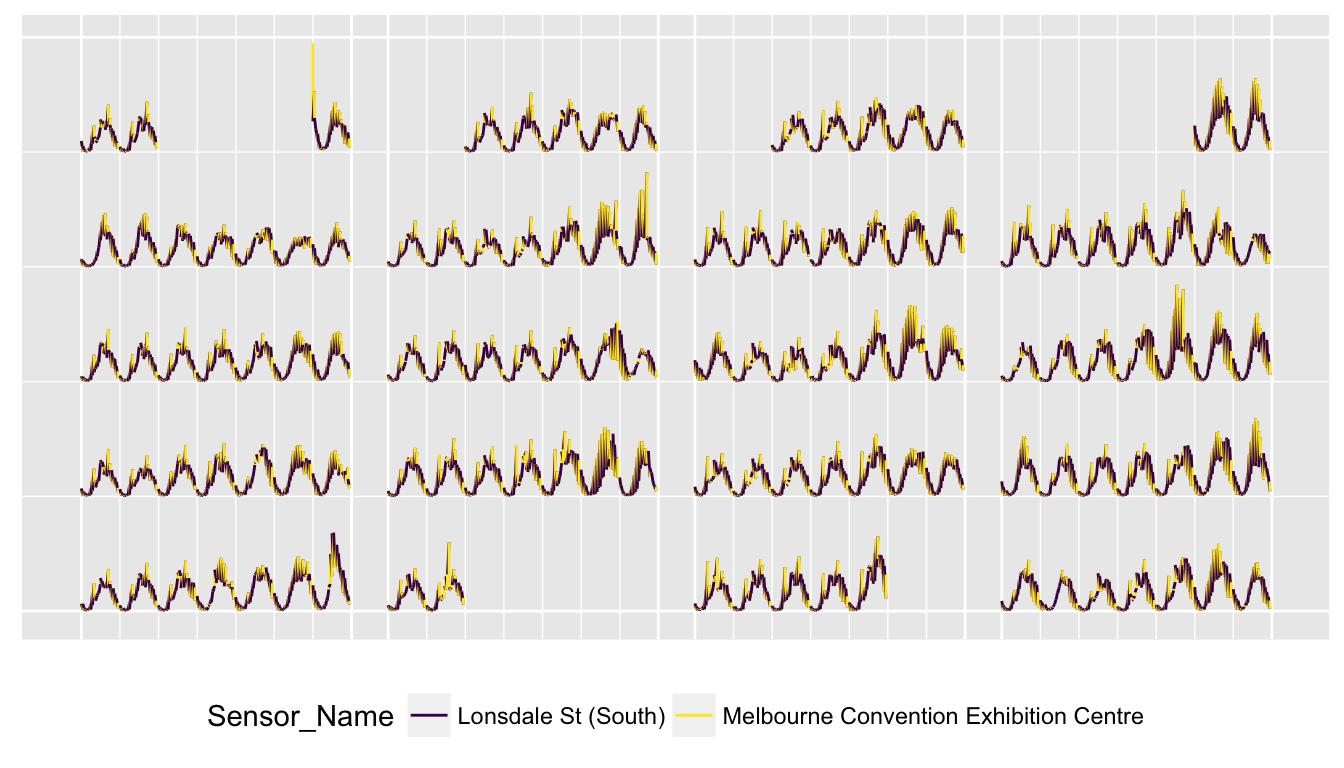
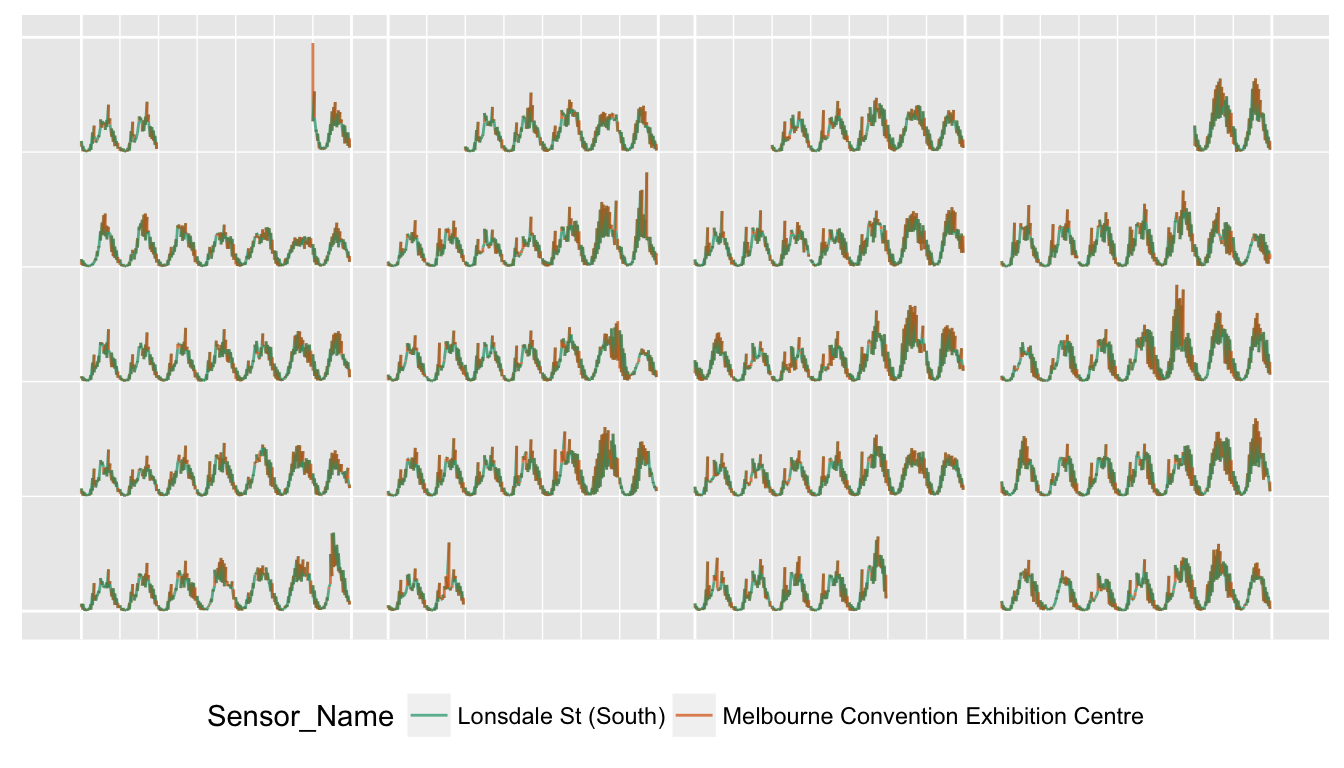
adjusted aes in vignette

diff --git a/docs/articles/frame-calendar.html b/docs/articles/frame-calendar.html
@@ -69,7 +69,7 @@
       <h1>Calendar-based graphics</h1>
                         <h4 class="author">Earo Wang, Di Cook, Rob J Hyndman</h4>
             
-            <h4 class="date">2017-06-23</h4>
+            <h4 class="date">2017-06-27</h4>
           </div>
 
     
@@ -78,7 +78,7 @@
 <div id="introduction" class="section level2">
 <h2 class="hasAnchor">
 <a href="#introduction" class="anchor"></a>Introduction</h2>
-<p>Calendar-based graphics turn out a useful tool for visually unfolding people’s daily schedules in details, such as hourly foot traffic in CBD, daily residential electricity demand and etc. It arranges the values according to the corresponding dates into a calendar layout, which is comprised of weekdays on the columns and weeks of a month on the rows for a common monthly calendar. The idea originates from <span class="citation">Van Wijk and Van Selow (<a href="#ref-van_wijk_cluster_1999">1999</a>)</span> and is implemented into a couple of R packages (<a href="https://github.com/AtherEnergy/ggTimeSeries">ggTimeSeries</a> and <a href="https://github.com/jayjacobs/ggcal">ggcal</a>), yet they all are a variant of heatmap in temporal context. We extend the calendar-based graphics to a broader range of applications using linear algebra tools. For example, (1) it not only handles with data of daily intervals but also of higher frequency like hourly data; (2) it is no longer constrained to heatmap but can be used with other types of <em>Geoms</em>; (3) the built-in calendars include <em>monthly</em>, <em>weekly</em>, and <em>daily</em> types for the purpose of comparisons between different temporal components. The function <code>frame_calendar</code> returns the computed calendar grids as a data frame or a tibble according to its data input, and <em>ggplot2</em> takes care of the plotting as you usually do with a data frame.</p>
+<p>Calendar-based graphics turn out a useful tool for visually unfolding people’s daily schedules in details, such as hourly foot traffic in CBD, daily residential electricity demand and etc. It arranges the values according to the corresponding dates into a calendar layout, which is comprised of weekdays on columns and weeks of a month on rows for a common monthly calendar. The idea originates from <span class="citation">Van Wijk and Van Selow (<a href="#ref-van_wijk_cluster_1999">1999</a>)</span> and is implemented into a couple of R packages (<a href="https://github.com/AtherEnergy/ggTimeSeries">ggTimeSeries</a> and <a href="https://github.com/jayjacobs/ggcal">ggcal</a>), yet they all are a variant of heatmap in temporal context. We extend the calendar-based graphics to a broader range of applications using linear algebra tools. For example, (1) it not only handles with data of daily intervals but also of higher frequency like hourly data; (2) it is no longer constrained to heatmap but can be used with other types of <em>Geoms</em>; (3) the built-in calendars include <em>monthly</em>, <em>weekly</em>, and <em>daily</em> types for the purpose of comparisons between different temporal components. The function <code><a href="../reference/frame-calendar.html">frame_calendar()</a></code> returns the computed calendar grids as a data frame or a tibble according to its data input, and <em>ggplot2</em> takes care of the plotting as you usually do with a data frame.</p>
 <p>We are going to use Melbourne pedestrian data (shipped with the package) as an example throughout the vignette, which is sourced from <a href="http://www.pedestrian.melbourne.vic.gov.au">Melbourne Open Data Portal</a>. The subset of the data contains 7 sensors counting foot traffic at hourly intervals across the city of Melbourne from January to April in 2017.</p>
 <div class="sourceCode"><pre class="sourceCode r"><code class="sourceCode r"><span class="kw">library</span>(tidyr)
 <span class="kw">library</span>(dplyr)
@@ -123,9 +123,9 @@ p1</code></pre></div>
 <div class="sourceCode"><pre class="sourceCode r"><code class="sourceCode r"><span class="kw"><a href="../reference/frame-calendar.html">prettify</a></span>(p1)</code></pre></div>
 <p><img src="frame-calendar_files/figure-html/centre-more-1.png" width="672"></p>
 </div>
-<div id="scaling" class="section level2">
+<div id="scales" class="section level2">
 <h2 class="hasAnchor">
-<a href="#scaling" class="anchor"></a>Scaling</h2>
+<a href="#scales" class="anchor"></a>Scales</h2>
 <p>Scaling is controlled by the <code>scale</code> argument: <code>NULL</code> is the default suggesting to be scaled globally. The figure above shows the global scale that enables overall comparison. Another option <code>free</code> means to be scaled for each daily block individually. It puts more emphasis on a single day shape instead of magnitude comparison.</p>
 <div class="sourceCode"><pre class="sourceCode r"><code class="sourceCode r">centre_calendar_free &lt;-<span class="st"> </span>centre <span class="op">%&gt;%</span>
 <span class="st">  </span><span class="kw"><a href="../reference/frame-calendar.html">frame_calendar</a></span>(<span class="dt">x =</span> Time, <span class="dt">y =</span> Hourly_Counts, <span class="dt">date =</span> Date, <span class="dt">calendar =</span> <span class="st">"monthly"</span>,
@@ -156,8 +156,8 @@ two_sensors_calendar &lt;-<span class="st"> </span>two_sensors <span class="op">
 <span class="st">  </span><span class="kw"><a href="../reference/frame-calendar.html">frame_calendar</a></span>(<span class="dt">x =</span> Time, <span class="dt">y =</span> Hourly_Counts, <span class="dt">date =</span> Date, <span class="dt">ncol =</span> <span class="dv">4</span>)
 p4 &lt;-<span class="st"> </span>two_sensors_calendar <span class="op">%&gt;%</span>
 <span class="st">  </span><span class="kw">ggplot</span>(<span class="kw">aes</span>(<span class="dt">x =</span> .Time, <span class="dt">y =</span> .Hourly_Counts, <span class="dt">group =</span> Date, <span class="dt">colour =</span> Sensor_Name)) <span class="op">+</span>
-<span class="st">  </span><span class="kw">geom_line</span>() <span class="op">+</span>
-<span class="st">  </span><span class="kw"><a href="http://www.rdocumentation.org/packages/viridis/topics/scale_viridis">scale_colour_viridis</a></span>(<span class="dt">discrete =</span> <span class="ot">TRUE</span>) <span class="op">+</span>
+<span class="st">  </span><span class="kw">geom_line</span>(<span class="dt">alpha =</span> <span class="fl">0.7</span>) <span class="op">+</span>
+<span class="st">  </span><span class="kw">scale_colour_brewer</span>(<span class="dt">palette =</span> <span class="st">"Dark2"</span>) <span class="op">+</span>
 <span class="st">  </span><span class="kw">theme</span>(<span class="dt">legend.position =</span> <span class="st">"bottom"</span>)
 <span class="kw"><a href="../reference/frame-calendar.html">prettify</a></span>(p4, <span class="dt">label =</span> <span class="ot">NULL</span>)</code></pre></div>
 <p><img src="frame-calendar_files/figure-html/overlay-1.png" width="672"></p>
@@ -219,7 +219,7 @@ sensors_wide_calendar &lt;-<span class="st"> </span>two_sensors_wide <span class
 <span class="st">  </span><span class="kw">geom_rect</span>(<span class="kw">aes</span>(<span class="dt">xmin =</span> .Time, <span class="dt">xmax =</span> .Time <span class="op">+</span><span class="st"> </span><span class="fl">0.005</span>,
     <span class="dt">ymin =</span> .Lonsdale, <span class="dt">ymax =</span> .Centre, <span class="dt">fill =</span> More
   )) <span class="op">+</span>
-<span class="st">  </span><span class="kw"><a href="http://www.rdocumentation.org/packages/viridis/topics/scale_viridis">scale_fill_viridis</a></span>(<span class="dt">discrete =</span> <span class="ot">TRUE</span>) <span class="op">+</span>
+<span class="st">  </span><span class="kw">scale_fill_brewer</span>(<span class="dt">palette =</span> <span class="st">"Dark2"</span>) <span class="op">+</span>
 <span class="st">  </span><span class="kw">theme</span>(<span class="dt">legend.position =</span> <span class="st">"bottom"</span>)
 <span class="kw"><a href="../reference/frame-calendar.html">prettify</a></span>(p5)</code></pre></div>
 <p><img src="frame-calendar_files/figure-html/ped-daily-plot-1.png" width="672"></p>
@@ -272,7 +272,7 @@ centre_max_calendar &lt;-<span class="st"> </span>centre_daily <span class="op">
 <a href="#tocnav" class="anchor"></a>Contents</h2>
       <ul class="nav nav-pills nav-stacked">
 <li><a href="#introduction">Introduction</a></li>
-      <li><a href="#scaling">Scaling</a></li>
+      <li><a href="#scales">Scales</a></li>
       <li><a href="#use-in-conjunction-with-group_by">Use in conjunction with <code>group_by</code></a></li>
       <li><a href="#more-geoms">More geoms</a></li>
       <li><a href="#summary">Summary</a></li>

diff --git a/docs/reference/frame-calendar.html b/docs/reference/frame-calendar.html
@@ -118,12 +118,12 @@ It allows more flexibility for users to visualise the data in various ways.</p>
     </tr>
     <tr>
       <th>x</th>
-      <td><p>A variable mapping to time of day. If integer 1 is specified, it
-simply returns calendar grids on x without transformation.</p></td>
+      <td><p>A variable mapping to x axis, for example time of day. If integer 1
+is specified, it simply returns calendar grids on x without transformation.</p></td>
     </tr>
     <tr>
       <th>y</th>
-      <td><p>One variable or more mapping to value. If more than one variable,
+      <td><p>One variable or more mapping to y axis. If more than one variable,
 the variables needs to be quoted. If integer 1 is specified, it returns
 calendar grids on y without transformation.</p></td>
     </tr>
@@ -224,11 +224,12 @@ to have their individual scales. For more details, see <code><a href='https://cr
        <span class='kw'>x</span> <span class='kw'>=</span> <span class='no'>Time</span>, <span class='kw'>y</span> <span class='kw'>=</span> <span class='no'>Hourly_Counts</span>, <span class='kw'>date</span> <span class='kw'>=</span> <span class='no'>Date</span>, <span class='kw'>sunday</span> <span class='kw'>=</span> <span class='fl'>TRUE</span>
      )
 
-   <span class='no'>p2</span> <span class='kw'>&lt;-</span> <span class='no'>grped_calendar</span> <span class='kw'>%&gt;%</span>
+   <span class='no'>grped_calendar</span> <span class='kw'>%&gt;%</span>
      <span class='fu'>ggplot</span>(<span class='fu'>aes</span>(<span class='kw'>x</span> <span class='kw'>=</span> <span class='no'>.Time</span>, <span class='kw'>y</span> <span class='kw'>=</span> <span class='no'>.Hourly_Counts</span>, <span class='kw'>group</span> <span class='kw'>=</span> <span class='no'>Date</span>)) +
      <span class='fu'>geom_line</span>() +
-     <span class='fu'>facet_wrap</span>(~ <span class='no'>Sensor_Name</span>, <span class='kw'>nrow</span> <span class='kw'>=</span> <span class='fl'>2</span>)
-   <span class='co'># prettify(p2, label = "text") not working for group_by</span></div></pre>
+     <span class='fu'>facet_wrap</span>(~ <span class='no'>Sensor_Name</span>, <span class='kw'>nrow</span> <span class='kw'>=</span> <span class='fl'>2</span>)</div><div class='img'><img src='frame-calendar-2.png' alt='' width='700' height='432.632880098887' /></div><div class='input'>   # prettify() not working for group_by
+
+</div></pre>
   </div>
   <div class="col-md-3 hidden-xs hidden-sm" id="sidebar">
     <h2>Contents</h2>
